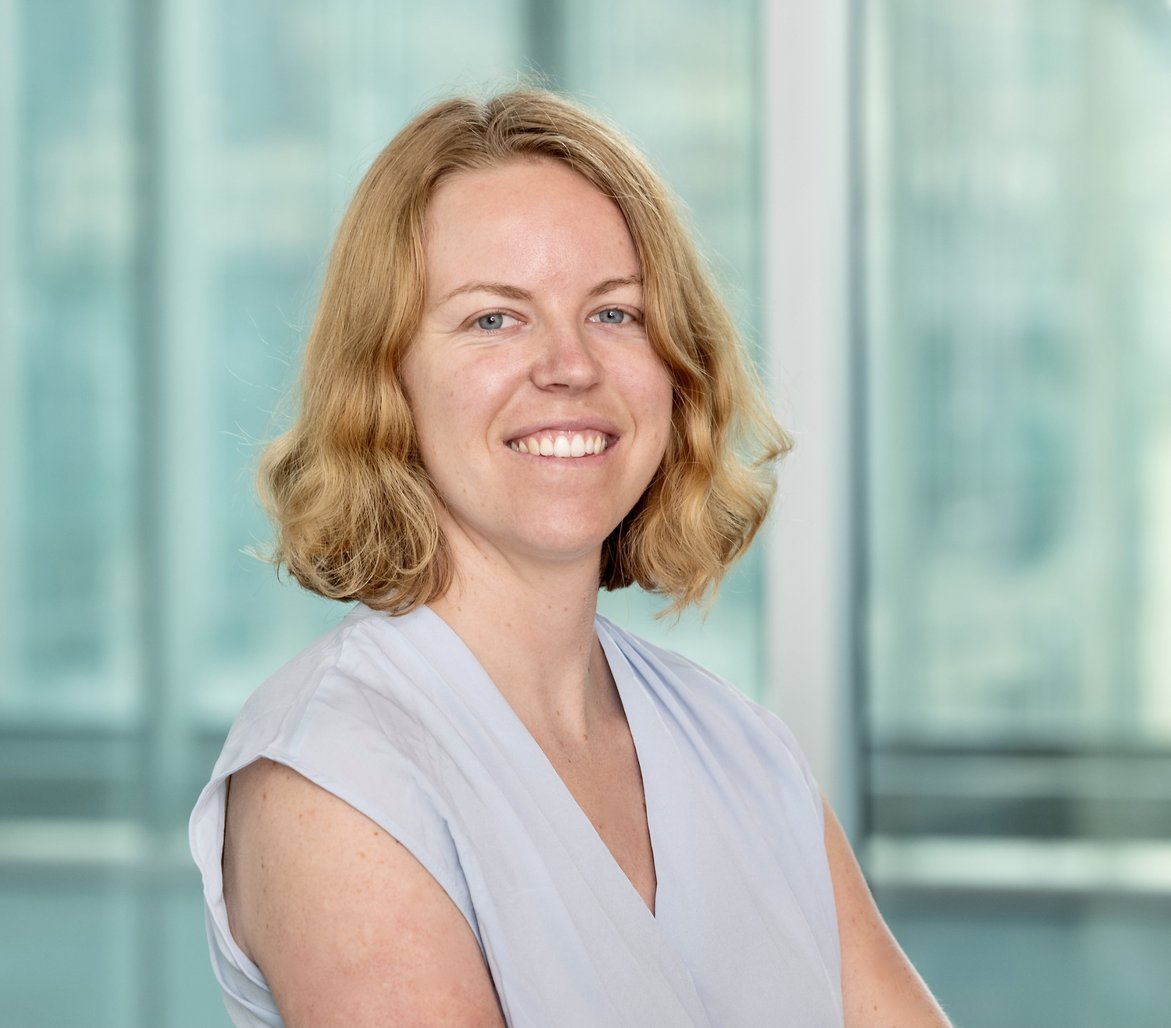
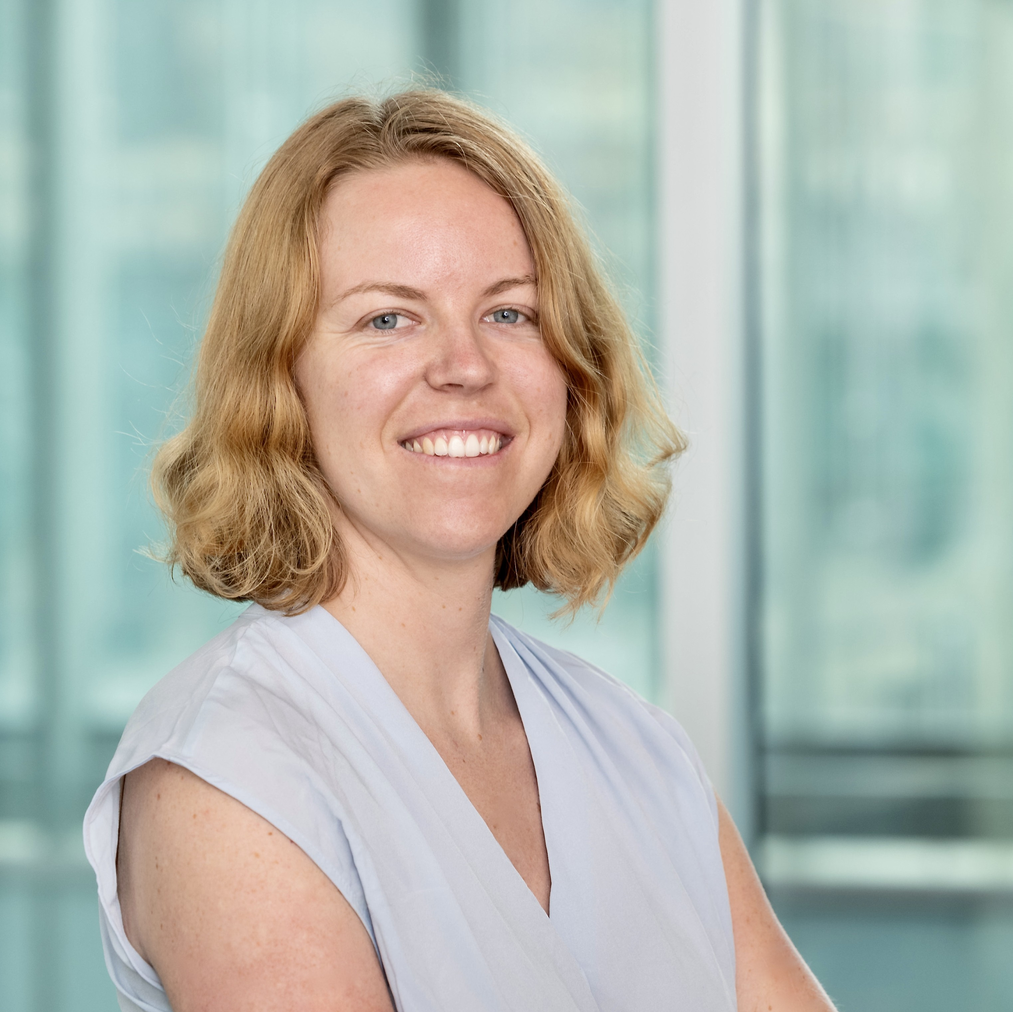
Making the people page prettier
All of the profile images are now square. Rows are aligned in the center
so it looks a lot nicer. Forced the columns to divide the space into 3,
so we don't have weirdness with the last column. Also changed the size
of fonts and stuff.

diff --git a/gsa_people.html b/gsa_people.html
@@ -7,36 +7,31 @@ layout: default
 	{% for person in site.data.people %}
 	{% assign rownum = forloop.index0 | modulo:3 %}
 		{% if rownum == 0 %}
-			<div class='row'>
+			<div class='row d-flex flex-wrap align-items-center'>
 		{% endif %}
 		{% assign pic_fname = person.name | truncatewords: 1, "" %}
-		<div class='col'>
+		<div class='col-4'>
 			<h3 class='text-center'>{{person.title}}</h3>
-			<!-- <div class='thumbnail'> -->
-				<!-- <figure> -->
-					<img class='img-rounded mx-auto d-block' src='/assets/images/{{pic_fname}}_profile.jpg' alt="">
-				<!-- </figure> -->
-			<!-- </div> -->
+			<img class='img-rounded mx-auto d-block' src='/assets/images/{{pic_fname}}_profile.jpg' alt="">
 			<div class='text-center'>
-			<p class='text-center'>
-			<strong>{{person.name}}</strong>
-			<br>
-			{{person.year}}<sup>
-				{%- if person.year > 3 -%}
-					th
-				{%- elsif person.year == 3 -%}
-					rd
-				{%- elsif person.year == 2 -%}
-					nd
-				{%- elsif person.year == 1 -%}
-					th
-				{% endif %}
-				</sup>  year
-				<br>
-				<strong>Advisor: </strong>{{person.advisor}}
-				<br>
-				{{person.fun_fact}}
-			</p>
+				<p style="font-size:1.25em;margin-bottom:0em;"><strong>{{person.name}}</strong></p>
+				<p class='text-center'>
+				{{person.year}}<sup>
+					{%- if person.year > 3 -%}
+						th
+					{%- elsif person.year == 3 -%}
+						rd
+					{%- elsif person.year == 2 -%}
+						nd
+					{%- elsif person.year == 1 -%}
+						th
+					{% endif %}
+					</sup>  year
+					<br>
+					<strong>Advisor: </strong>{{person.advisor}}
+					<br>
+					{{person.fun_fact}}
+				</p>
 			</div>
 		</div>
 		{% if rownum == 2 %}
